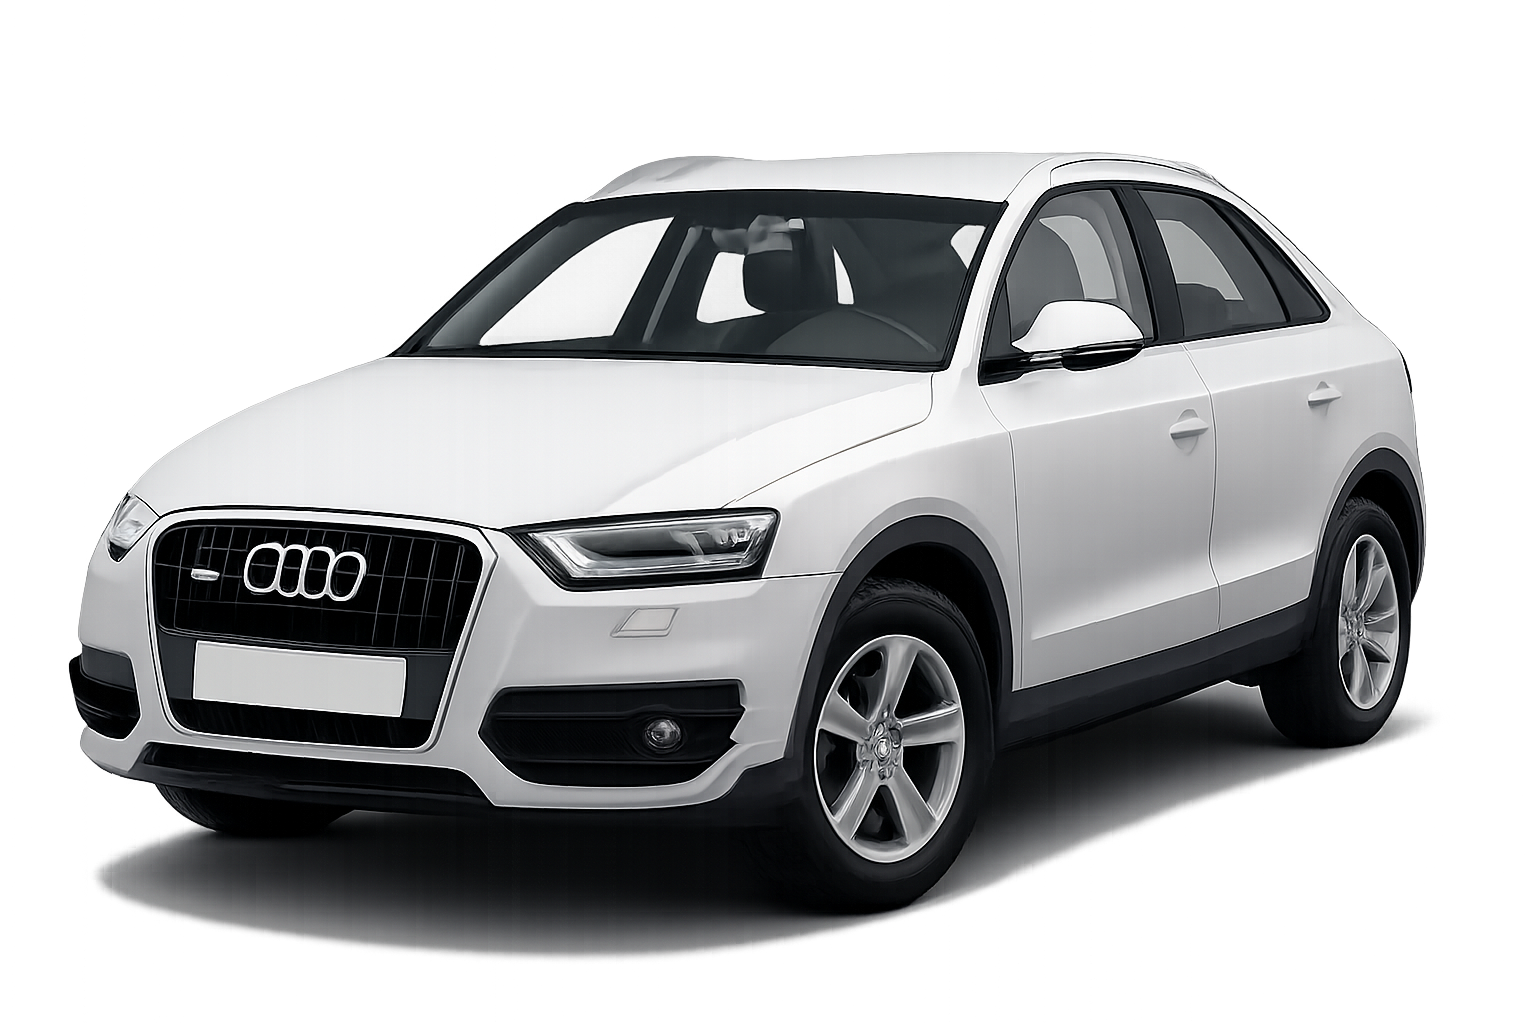
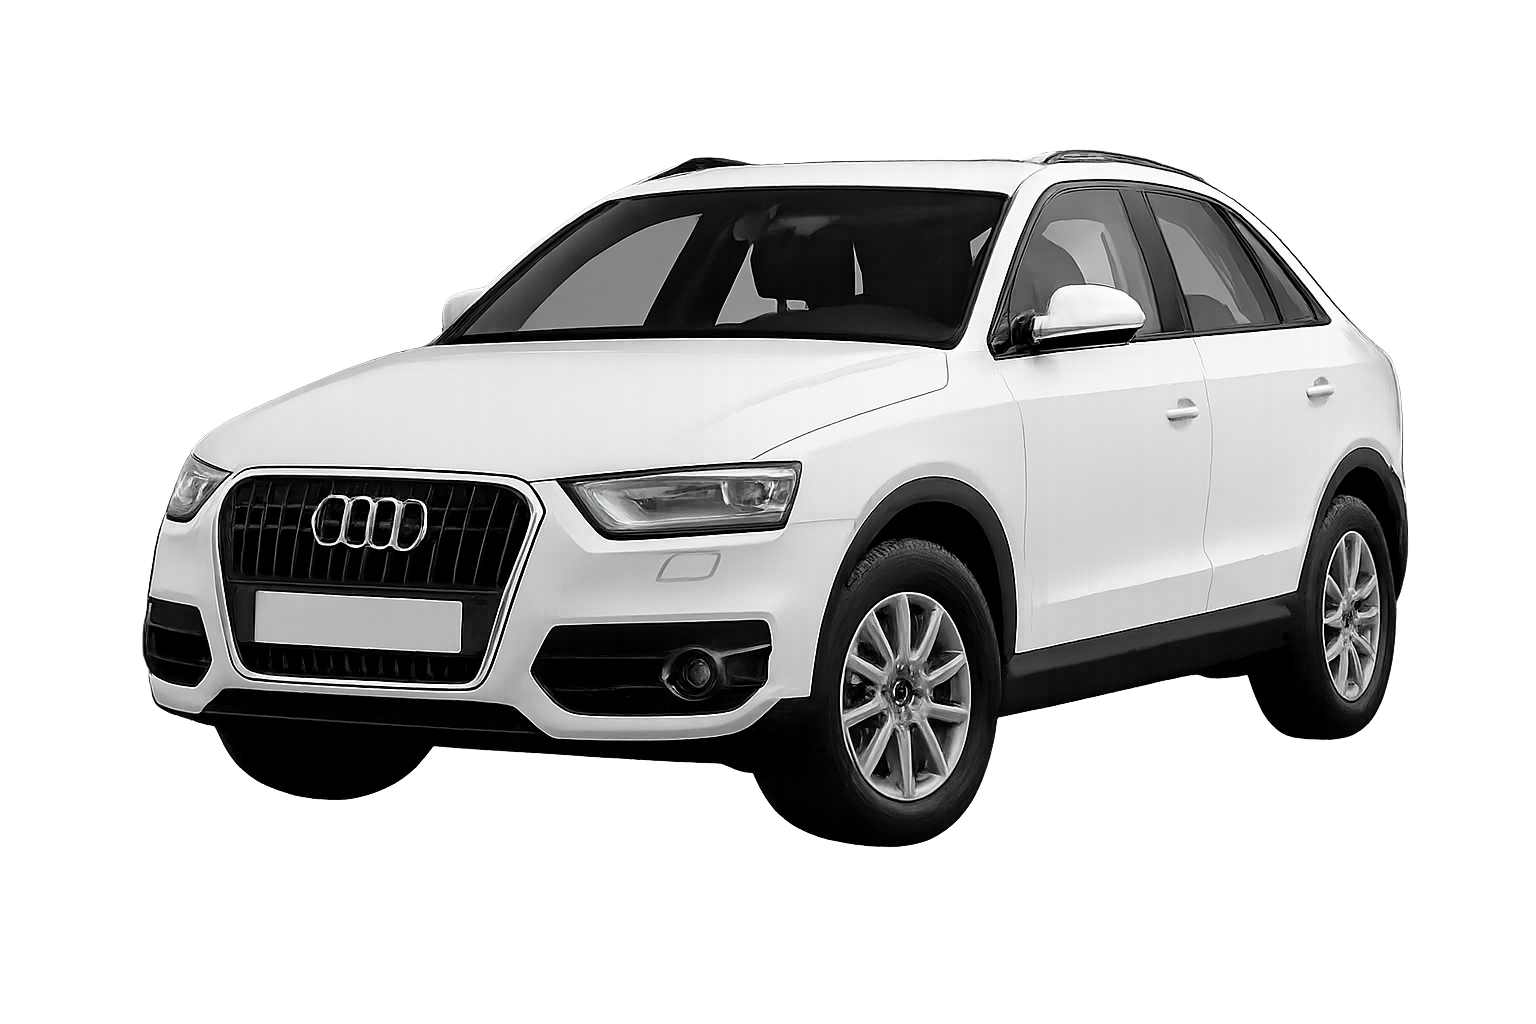
Add: Audi Q3 integration with colors and thumbnails; Fix: Mercedes E-Class image display and thumbnail generation for both mercedes-e-class and mercedes-e-klasse IDs

diff --git a/public_html/assets/js/parc-auto.js b/public_html/assets/js/parc-auto.js
@@ -36,7 +36,18 @@ const CAR_MODELS = {
         title: 'MERCEDES E-CLASS',
         images: [
             { file: 'mercedes-e-class/mercedes-e-class-luxury-satu-mare.png', alt: 'Mercedes E-Class sedan premium - imagine principală', isDirectImage: true },
-            { file: 'mercedes-e-class/gallery/mercedes-e-class-interior-luxury-executive.jpg', alt: 'Interior luxury executive Mercedes E-Class', isDirectImage: true }
+            { file: 'mercedes-e-class/gallery/mercedes-e-class-interior-luxury-executive.jpg', alt: 'Interior luxury executive Mercedes E-Class', isDirectImage: true },
+            { file: 'placeholder.jpg', alt: 'Vedere laterală', isDirectImage: true },
+            { file: 'placeholder.jpg', alt: 'Portbagaj executive', isDirectImage: true }
+        ]
+    },
+    'mercedes-e-klasse': {
+        title: 'MERCEDES E KLASSE',
+        images: [
+            { file: 'mercedes-e-class/mercedes-e-class-luxury-satu-mare.png', alt: 'Mercedes E-Class sedan premium - imagine principală', isDirectImage: true },
+            { file: 'mercedes-e-class/gallery/mercedes-e-class-interior-luxury-executive.jpg', alt: 'Interior luxury executive Mercedes E-Class', isDirectImage: true },
+            { file: 'placeholder.jpg', alt: 'Vedere laterală', isDirectImage: true },
+            { file: 'placeholder.jpg', alt: 'Portbagaj executive', isDirectImage: true }
         ]
     },
     'toyota-rav4': {
@@ -70,6 +81,15 @@ const CAR_MODELS = {
         title: 'RENAULT KOLEOS',
         images: [
             { file: 'renault-koleos-suv-inchiriere-family-satu-mare.jpg', alt: 'Renault Koleos SUV închiriere family Satu Mare' }
+        ]
+    },
+    'audi-q3': {
+        title: 'AUDI Q3',
+        images: [
+            { file: 'audi-q3/audi-q3-2011-veiron-auto-rent.png', alt: 'Audi Q3 SUV', isDirectImage: true },
+            { file: 'placeholder.jpg', alt: 'Interior Audi Q3', isDirectImage: false },
+            { file: 'placeholder.jpg', alt: 'Vedere laterală', isDirectImage: false },
+            { file: 'placeholder.jpg', alt: 'Portbagaj', isDirectImage: false }
         ]
     }
 };
@@ -135,6 +155,16 @@ const CAR_COLORS = {
         color: 'white',
         colorRO: 'ALB',
         colorEN: 'WHITE'
+    },
+    'audi-q3': {
+        color: 'black',
+        colorRO: 'NEGRU',
+        colorEN: 'BLACK'
+    },
+    'mercedes-e-klasse': {
+        color: 'grey',
+        colorRO: 'GRI METALIZAT',
+        colorEN: 'GREY METALLIC'
     }
 };
 
@@ -268,7 +298,7 @@ function getFallbackImage() {
 
 // Dynamic Gallery System
 function initDynamicGalleries() {
-    const carCards = document.querySelectorAll('.car-card[data-model]:not([data-model="mercedes-e-class"]):not([data-model="mercedes-e-klasse"])');
+    const carCards = document.querySelectorAll('.car-card[data-model]');
     
     carCards.forEach((card, index) => {
         const modelId = card.dataset.model;
@@ -736,10 +766,12 @@ class CarFleet {
             window.CarEnhancements.mapBaggageCapacity(car) : 
             (car.category === 'van' ? '4 bagaje mari' : '3 bagaje mari');
         
-        // Determine main image src - use direct path for Mercedes
+        // Determine main image src - use direct path for Mercedes and Audi Q3
         let mainImageSrc = '';
         if (car.id === 'mercedes-e-klasse' || car.id === 'mercedes-e-class') {
             mainImageSrc = 'assets/images/cars/mercedes-e-class/mercedes-e-class-luxury-satu-mare.png';
+        } else if (car.id === 'audi-q3') {
+            mainImageSrc = 'assets/images/cars/audi-q3/audi-q3-2011-veiron-auto-rent.png';
         }
         
         carElement.innerHTML = `

diff --git a/public_html/assets/js/parc-auto-en.js b/public_html/assets/js/parc-auto-en.js
@@ -36,7 +36,18 @@ const CAR_MODELS = {
         title: 'MERCEDES E-CLASS',
         images: [
             { file: 'mercedes-e-class/mercedes-e-class-luxury-satu-mare.png', alt: 'Mercedes E-Class sedan premium - main image', isDirectImage: true },
-            { file: 'mercedes-e-class/gallery/mercedes-e-class-interior-luxury-executive.jpg', alt: 'Luxury executive interior Mercedes E-Class', isDirectImage: true }
+            { file: 'mercedes-e-class/gallery/mercedes-e-class-interior-luxury-executive.jpg', alt: 'Luxury executive interior Mercedes E-Class', isDirectImage: true },
+            { file: 'placeholder.jpg', alt: 'Side view', isDirectImage: true },
+            { file: 'placeholder.jpg', alt: 'Executive trunk', isDirectImage: true }
+        ]
+    },
+    'mercedes-e-klasse': {
+        title: 'MERCEDES E KLASSE',
+        images: [
+            { file: 'mercedes-e-class/mercedes-e-class-luxury-satu-mare.png', alt: 'Mercedes E-Class sedan premium - main image', isDirectImage: true },
+            { file: 'mercedes-e-class/gallery/mercedes-e-class-interior-luxury-executive.jpg', alt: 'Luxury executive interior Mercedes E-Class', isDirectImage: true },
+            { file: 'placeholder.jpg', alt: 'Side view', isDirectImage: true },
+            { file: 'placeholder.jpg', alt: 'Executive trunk', isDirectImage: true }
         ]
     },
     'toyota-rav4': {
@@ -70,6 +81,15 @@ const CAR_MODELS = {
         title: 'RENAULT KOLEOS',
         images: [
             { file: 'renault-koleos-suv-inchiriere-family-satu-mare.jpg', alt: 'Renault Koleos SUV family rental Satu Mare' }
+        ]
+    },
+    'audi-q3': {
+        title: 'AUDI Q3',
+        images: [
+            { file: 'audi-q3/audi-q3-2011-veiron-auto-rent.png', alt: 'Audi Q3 SUV', isDirectImage: true },
+            { file: 'placeholder.jpg', alt: 'Audi Q3 interior', isDirectImage: false },
+            { file: 'placeholder.jpg', alt: 'Side view', isDirectImage: false },
+            { file: 'placeholder.jpg', alt: 'Trunk', isDirectImage: false }
         ]
     }
 };
@@ -135,6 +155,16 @@ const CAR_COLORS = {
         color: 'white',
         colorRO: 'ALB',
         colorEN: 'WHITE'
+    },
+    'audi-q3': {
+        color: 'black',
+        colorRO: 'NEGRU',
+        colorEN: 'BLACK'
+    },
+    'mercedes-e-klasse': {
+        color: 'grey',
+        colorRO: 'GRI METALIZAT',
+        colorEN: 'GREY METALLIC'
     }
 };
 
@@ -267,7 +297,7 @@ function getFallbackImage() {
 
 // Dynamic Gallery System
 function initDynamicGalleries() {
-    const carCards = document.querySelectorAll('.car-card[data-model]:not([data-model="mercedes-e-class"]):not([data-model="mercedes-e-klasse"])');
+    const carCards = document.querySelectorAll('.car-card[data-model]');
     
     carCards.forEach((card, index) => {
         const modelId = card.dataset.model;
@@ -728,10 +758,12 @@ class CarFleet {
             window.CarEnhancementsEN.mapBaggageCapacityEN(car) : 
             (car.category === 'van' ? '4 large bags' : '3 large bags');
         
-        // Determine main image src - use direct path for Mercedes
+        // Determine main image src - use direct path for Mercedes and Audi Q3
         let mainImageSrc = '';
         if (car.id === 'mercedes-e-klasse' || car.id === 'mercedes-e-class') {
             mainImageSrc = 'assets/images/cars/mercedes-e-class/mercedes-e-class-luxury-satu-mare.png';
+        } else if (car.id === 'audi-q3') {
+            mainImageSrc = 'assets/images/cars/audi-q3/audi-q3-2011-veiron-auto-rent.png';
         }
         
         carElement.innerHTML = `

diff --git a/public_html/assets/css/parc-auto.css b/public_html/assets/css/parc-auto.css
@@ -274,6 +274,7 @@ body {
     height: 28px;
     margin: 8px 0 4px 0;
     width: fit-content;
+    flex-wrap: nowrap;
 }
 
 .color-label {
@@ -289,6 +290,8 @@ body {
     display: flex;
     align-items: center;
     gap: 6px;
+    flex-shrink: 1;
+    min-width: 0;
 }
 
 .color-swatch {
@@ -355,7 +358,8 @@ body {
 }
 
 .car-card[data-model="mercedes-e-class"] .main-image,
-.car-card[data-model="mercedes-e-klasse"] .main-image {
+.car-card[data-model="mercedes-e-klasse"] .main-image,
+.car-card[data-model="audi-q3"] .main-image {
     object-fit: contain !important;
     object-position: center !important;
     transform: none !important;
